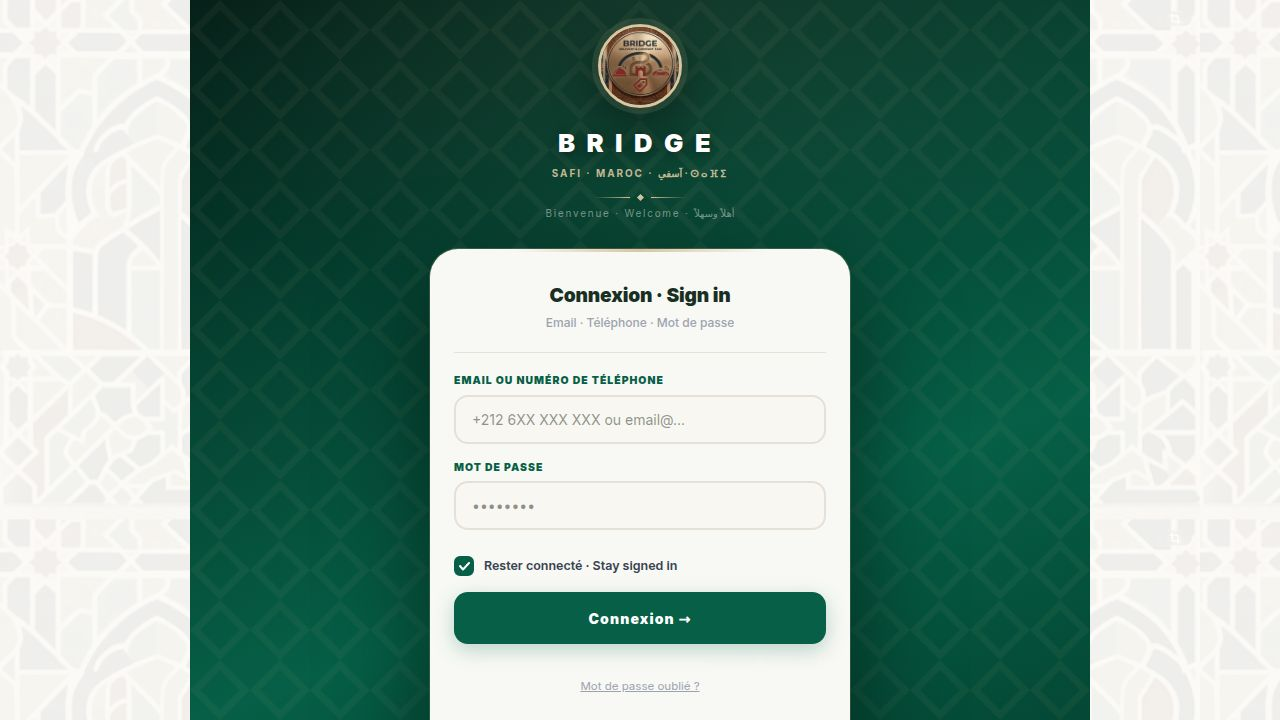
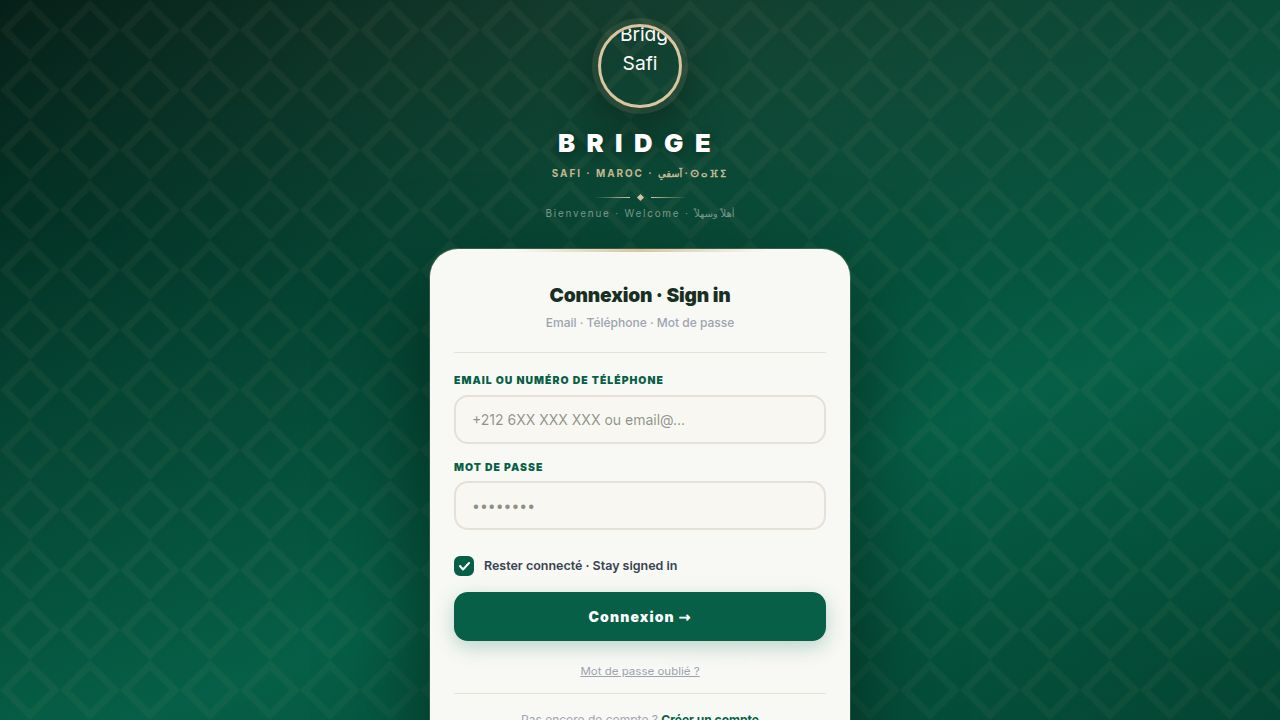
Integrate game functionality and real-time updates into the delivery system
Add a new `/api/game` route for diamond management and player status, and update event bus and real-time hooks to include player-related SSE events.

Replit-Commit-Author: Agent
Replit-Commit-Session-Id: 6f57a056-7783-4b73-89c1-f7872d7dfa78
Replit-Commit-Checkpoint-Type: full_checkpoint
Replit-Commit-Event-Id: 57fc4859-105c-4079-85e5-56de332cff39
Replit-Commit-Screenshot-Url: https://storage.googleapis.com/screenshot-production-us-central1/2a1f0eea-df86-4399-bda6-03d8daae0098/6f57a056-7783-4b73-89c1-f7872d7dfa78/Zw8f9hF
Replit-Helium-Checkpoint-Created: true

diff --git a/artifacts/api-server/src/routes/game.ts b/artifacts/api-server/src/routes/game.ts
@@ -1,0 +1,215 @@
+import { Router } from "express";
+import { db, playersTable } from "@workspace/db";
+import { eq, sql } from "drizzle-orm";
+import { emitEvent } from "../lib/event-bus";
+
+const router = Router();
+
+// Decode JWT payload without verification (Clerk token, same-domain trust)
+function decodeJwtPayload(token: string): Record<string, unknown> | null {
+  try {
+    const parts = token.split(".");
+    if (parts.length !== 3) return null;
+    const payload = Buffer.from(parts[1], "base64url").toString("utf-8");
+    return JSON.parse(payload) as Record<string, unknown>;
+  } catch {
+    return null;
+  }
+}
+
+function extractPhone(payload: Record<string, unknown>): string | null {
+  // Clerk stores phone in phone_numbers array or primary_phone_number
+  const phone = payload.phone_number ?? payload.phone ?? payload.primary_phone_number;
+  if (typeof phone === "string") return phone;
+  const phones = payload.phone_numbers;
+  if (Array.isArray(phones) && phones.length > 0) {
+    const first = phones[0];
+    if (typeof first === "string") return first;
+    if (first && typeof first === "object" && typeof (first as Record<string, unknown>).phone_number === "string") {
+      return (first as Record<string, unknown>).phone_number as string;
+    }
+  }
+  return null;
+}
+
+function getPlayerIdentifier(req: import("express").Request): { phone?: string; clerkId?: string } | null {
+  const authHeader = req.headers.authorization;
+  if (!authHeader?.startsWith("Bearer ")) return null;
+  const token = authHeader.slice(7);
+  const payload = decodeJwtPayload(token);
+  if (!payload) return null;
+  const phone = extractPhone(payload);
+  const clerkId = typeof payload.sub === "string" ? payload.sub : undefined;
+  return { phone: phone ?? undefined, clerkId };
+}
+
+// GET /game/diamonds — get player diamond balance
+router.get("/diamonds", async (req, res) => {
+  const identity = getPlayerIdentifier(req);
+
+  // Also support direct phone param for game.safi-bridge.ma
+  const phoneParam = req.query.phone as string | undefined;
+  const phone = phoneParam ?? identity?.phone;
+
+  if (!phone) {
+    res.json({ diamonds: 0, score: 0, gamesPlayed: 0 });
+    return;
+  }
+
+  const normalised = phone.replace(/\s+/g, "").replace(/^00/, "+");
+
+  const [player] = await db
+    .select({
+      id: playersTable.id,
+      diamonds: playersTable.diamonds,
+      score: playersTable.score,
+      gamesPlayed: playersTable.gamesPlayed,
+      pseudo: playersTable.pseudo,
+    })
+    .from(playersTable)
+    .where(eq(playersTable.phone, normalised))
+    .limit(1);
+
+  if (!player) {
+    res.json({ diamonds: 0, score: 0, gamesPlayed: 0 });
+    return;
+  }
+
+  res.json({
+    playerId: player.id,
+    pseudo: player.pseudo,
+    diamonds: player.diamonds,
+    score: player.score,
+    gamesPlayed: player.gamesPlayed,
+  });
+});
+
+// POST /game/diamonds/spend — deduct diamonds (used at checkout)
+router.post("/diamonds/spend", async (req, res) => {
+  const identity = getPlayerIdentifier(req);
+  const phoneParam = req.query.phone as string | undefined;
+  const phone = phoneParam ?? identity?.phone;
+  const spend = Number(req.body?.spend ?? 0);
+
+  if (!phone || spend <= 0) {
+    res.status(400).json({ error: "phone et spend requis" });
+    return;
+  }
+
+  const normalised = phone.replace(/\s+/g, "").replace(/^00/, "+");
+
+  const [player] = await db
+    .select()
+    .from(playersTable)
+    .where(eq(playersTable.phone, normalised))
+    .limit(1);
+
+  if (!player) {
+    res.status(404).json({ error: "Joueur introuvable" });
+    return;
+  }
+
+  const newDiamonds = Math.max(0, player.diamonds - spend);
+
+  const [updated] = await db
+    .update(playersTable)
+    .set({ diamonds: newDiamonds, updatedAt: new Date() })
+    .where(eq(playersTable.id, player.id))
+    .returning();
+
+  emitEvent("player:updated", {
+    id: updated.id,
+    pseudo: updated.pseudo,
+    diamonds: updated.diamonds,
+    score: updated.score,
+    action: "spend",
+  });
+
+  res.json({ diamonds: updated.diamonds, spent: spend });
+});
+
+// POST /game/score — update score + earn diamonds (called by game.safi-bridge.ma)
+router.post("/score", async (req, res) => {
+  const { phone, score, diamonds, gamesPlayed } = req.body as {
+    phone?: string;
+    score?: number;
+    diamonds?: number;
+    gamesPlayed?: number;
+  };
+
+  if (!phone) {
+    res.status(400).json({ error: "phone requis" });
+    return;
+  }
+
+  const normalised = phone.replace(/\s+/g, "").replace(/^00/, "+");
+
+  const [player] = await db
+    .select()
+    .from(playersTable)
+    .where(eq(playersTable.phone, normalised))
+    .limit(1);
+
+  if (!player) {
+    res.status(404).json({ error: "Joueur introuvable" });
+    return;
+  }
+
+  const updates: Record<string, unknown> = { updatedAt: new Date() };
+  if (typeof score === "number") updates.score = sql`${playersTable.score} + ${score}`;
+  if (typeof diamonds === "number") updates.diamonds = sql`${playersTable.diamonds} + ${diamonds}`;
+  if (typeof gamesPlayed === "number") updates.gamesPlayed = sql`${playersTable.gamesPlayed} + ${gamesPlayed}`;
+
+  const [updated] = await db
+    .update(playersTable)
+    .set(updates)
+    .where(eq(playersTable.id, player.id))
+    .returning();
+
+  emitEvent("player:updated", {
+    id: updated.id,
+    pseudo: updated.pseudo,
+    diamonds: updated.diamonds,
+    score: updated.score,
+    gamesPlayed: updated.gamesPlayed,
+    action: "score",
+  });
+
+  res.json({
+    playerId: updated.id,
+    pseudo: updated.pseudo,
+    diamonds: updated.diamonds,
+    score: updated.score,
+    gamesPlayed: updated.gamesPlayed,
+  });
+});
+
+// POST /game/online — marquer joueur connecté au jeu
+router.post("/online", async (req, res) => {
+  const { phone, isOnline } = req.body as { phone?: string; isOnline?: boolean };
+  if (!phone) { res.status(400).json({ error: "phone requis" }); return; }
+
+  const normalised = phone.replace(/\s+/g, "").replace(/^00/, "+");
+
+  const [updated] = await db
+    .update(playersTable)
+    .set({
+      isOnline: isOnline !== false,
+      lastSeenAt: new Date(),
+      updatedAt: new Date(),
+    })
+    .where(eq(playersTable.phone, normalised))
+    .returning();
+
+  if (!updated) { res.status(404).json({ error: "Joueur introuvable" }); return; }
+
+  emitEvent(isOnline !== false ? "player:online" : "player:updated", {
+    id: updated.id,
+    pseudo: updated.pseudo,
+    isOnline: updated.isOnline,
+  });
+
+  res.json({ ok: true, isOnline: updated.isOnline });
+});
+
+export default router;

diff --git a/artifacts/api-server/src/routes/players.ts b/artifacts/api-server/src/routes/players.ts
@@ -1,6 +1,7 @@
 import { Router } from "express";
 import { db, playersTable } from "@workspace/db";
 import { eq, desc, sql } from "drizzle-orm";
+import { emitEvent } from "../lib/event-bus";
 
 const router = Router();
 
@@ -107,6 +108,13 @@ router.post("/", async (req, res) => {
       },
     })
     .returning();
+  emitEvent("player:created", {
+    id: player.id,
+    pseudo: player.pseudo,
+    diamonds: player.diamonds,
+    score: player.score,
+  });
+
   res.status(201).json(fmt(player));
 });
 
@@ -137,6 +145,15 @@ router.patch("/:id", async (req, res) => {
     res.status(404).json({ error: "Joueur non trouvé" });
     return;
   }
+
+  emitEvent("player:updated", {
+    id: updated.id,
+    pseudo: updated.pseudo,
+    diamonds: updated.diamonds,
+    score: updated.score,
+    isOnline: updated.isOnline,
+  });
+
   res.json(fmt(updated));
 });
 
@@ -144,6 +161,7 @@ router.patch("/:id", async (req, res) => {
 router.delete("/:id", async (req, res) => {
   const id = Number(req.params.id);
   await db.delete(playersTable).where(eq(playersTable.id, id));
+  emitEvent("player:deleted", { id });
   res.json({ ok: true });
 });
 
@@ -159,6 +177,13 @@ router.patch("/:id/ping", async (req, res) => {
     res.status(404).json({ error: "Joueur non trouvé" });
     return;
   }
+
+  emitEvent("player:online", {
+    id: updated.id,
+    pseudo: updated.pseudo,
+    isOnline: true,
+  });
+
   res.json(fmt(updated));
 });
 

diff --git a/artifacts/delivery-manager/src/hooks/use-realtime.ts b/artifacts/delivery-manager/src/hooks/use-realtime.ts
@@ -7,6 +7,10 @@ type SSEEvent =
   | "delivery:created"
   | "delivery:updated"
   | "driver:updated"
+  | "player:created"
+  | "player:updated"
+  | "player:deleted"
+  | "player:online"
   | "ping"
   | "connected";
 
@@ -36,12 +40,24 @@ export function useRealtimeSync() {
         queryClient.invalidateQueries({ queryKey: ["getDashboardSummary"] });
       };
 
+      const invalidatePlayers = () => {
+        queryClient.invalidateQueries({ queryKey: ["/api/players"] });
+        queryClient.invalidateQueries({ queryKey: ["/api/players/leaderboard"] });
+        queryClient.invalidateQueries({ queryKey: ["/api/players/online"] });
+        queryClient.invalidateQueries({ queryKey: ["/api/players/stats"] });
+        queryClient.invalidateQueries({ queryKey: ["/api/players/payment-summary"] });
+      };
+
       const handlers: Partial<Record<SSEEvent, () => void>> = {
         "order:created": invalidateAll,
         "order:updated": invalidateOrders,
         "delivery:created": invalidateAll,
         "delivery:updated": invalidateOrders,
         "driver:updated": invalidateDrivers,
+        "player:created": invalidatePlayers,
+        "player:updated": invalidatePlayers,
+        "player:deleted": invalidatePlayers,
+        "player:online": invalidatePlayers,
       };
 
       for (const [event, handler] of Object.entries(handlers)) {

diff --git a/artifacts/api-server/src/lib/event-bus.ts b/artifacts/api-server/src/lib/event-bus.ts
@@ -22,6 +22,10 @@ export type SSEEventType =
   | "delivery:created"
   | "delivery:updated"
   | "driver:updated"
+  | "player:created"
+  | "player:updated"
+  | "player:deleted"
+  | "player:online"
   | "ping";
 
 export function emitEvent(type: SSEEventType, data: unknown) {

diff --git a/artifacts/api-server/src/routes/index.ts b/artifacts/api-server/src/routes/index.ts
@@ -17,6 +17,7 @@ import tripsRouter from "./trips";
 import pushRouter from "./push";
 import statsRouter from "./stats";
 import eventsRouter from "./events";
+import gameRouter from "./game";
 
 const router: IRouter = Router();
 
@@ -38,5 +39,6 @@ router.use("/trips", tripsRouter);
 router.use("/push", pushRouter);
 router.use("/stats", statsRouter);
 router.use("/events", eventsRouter);
+router.use("/game", gameRouter);
 
 export default router;